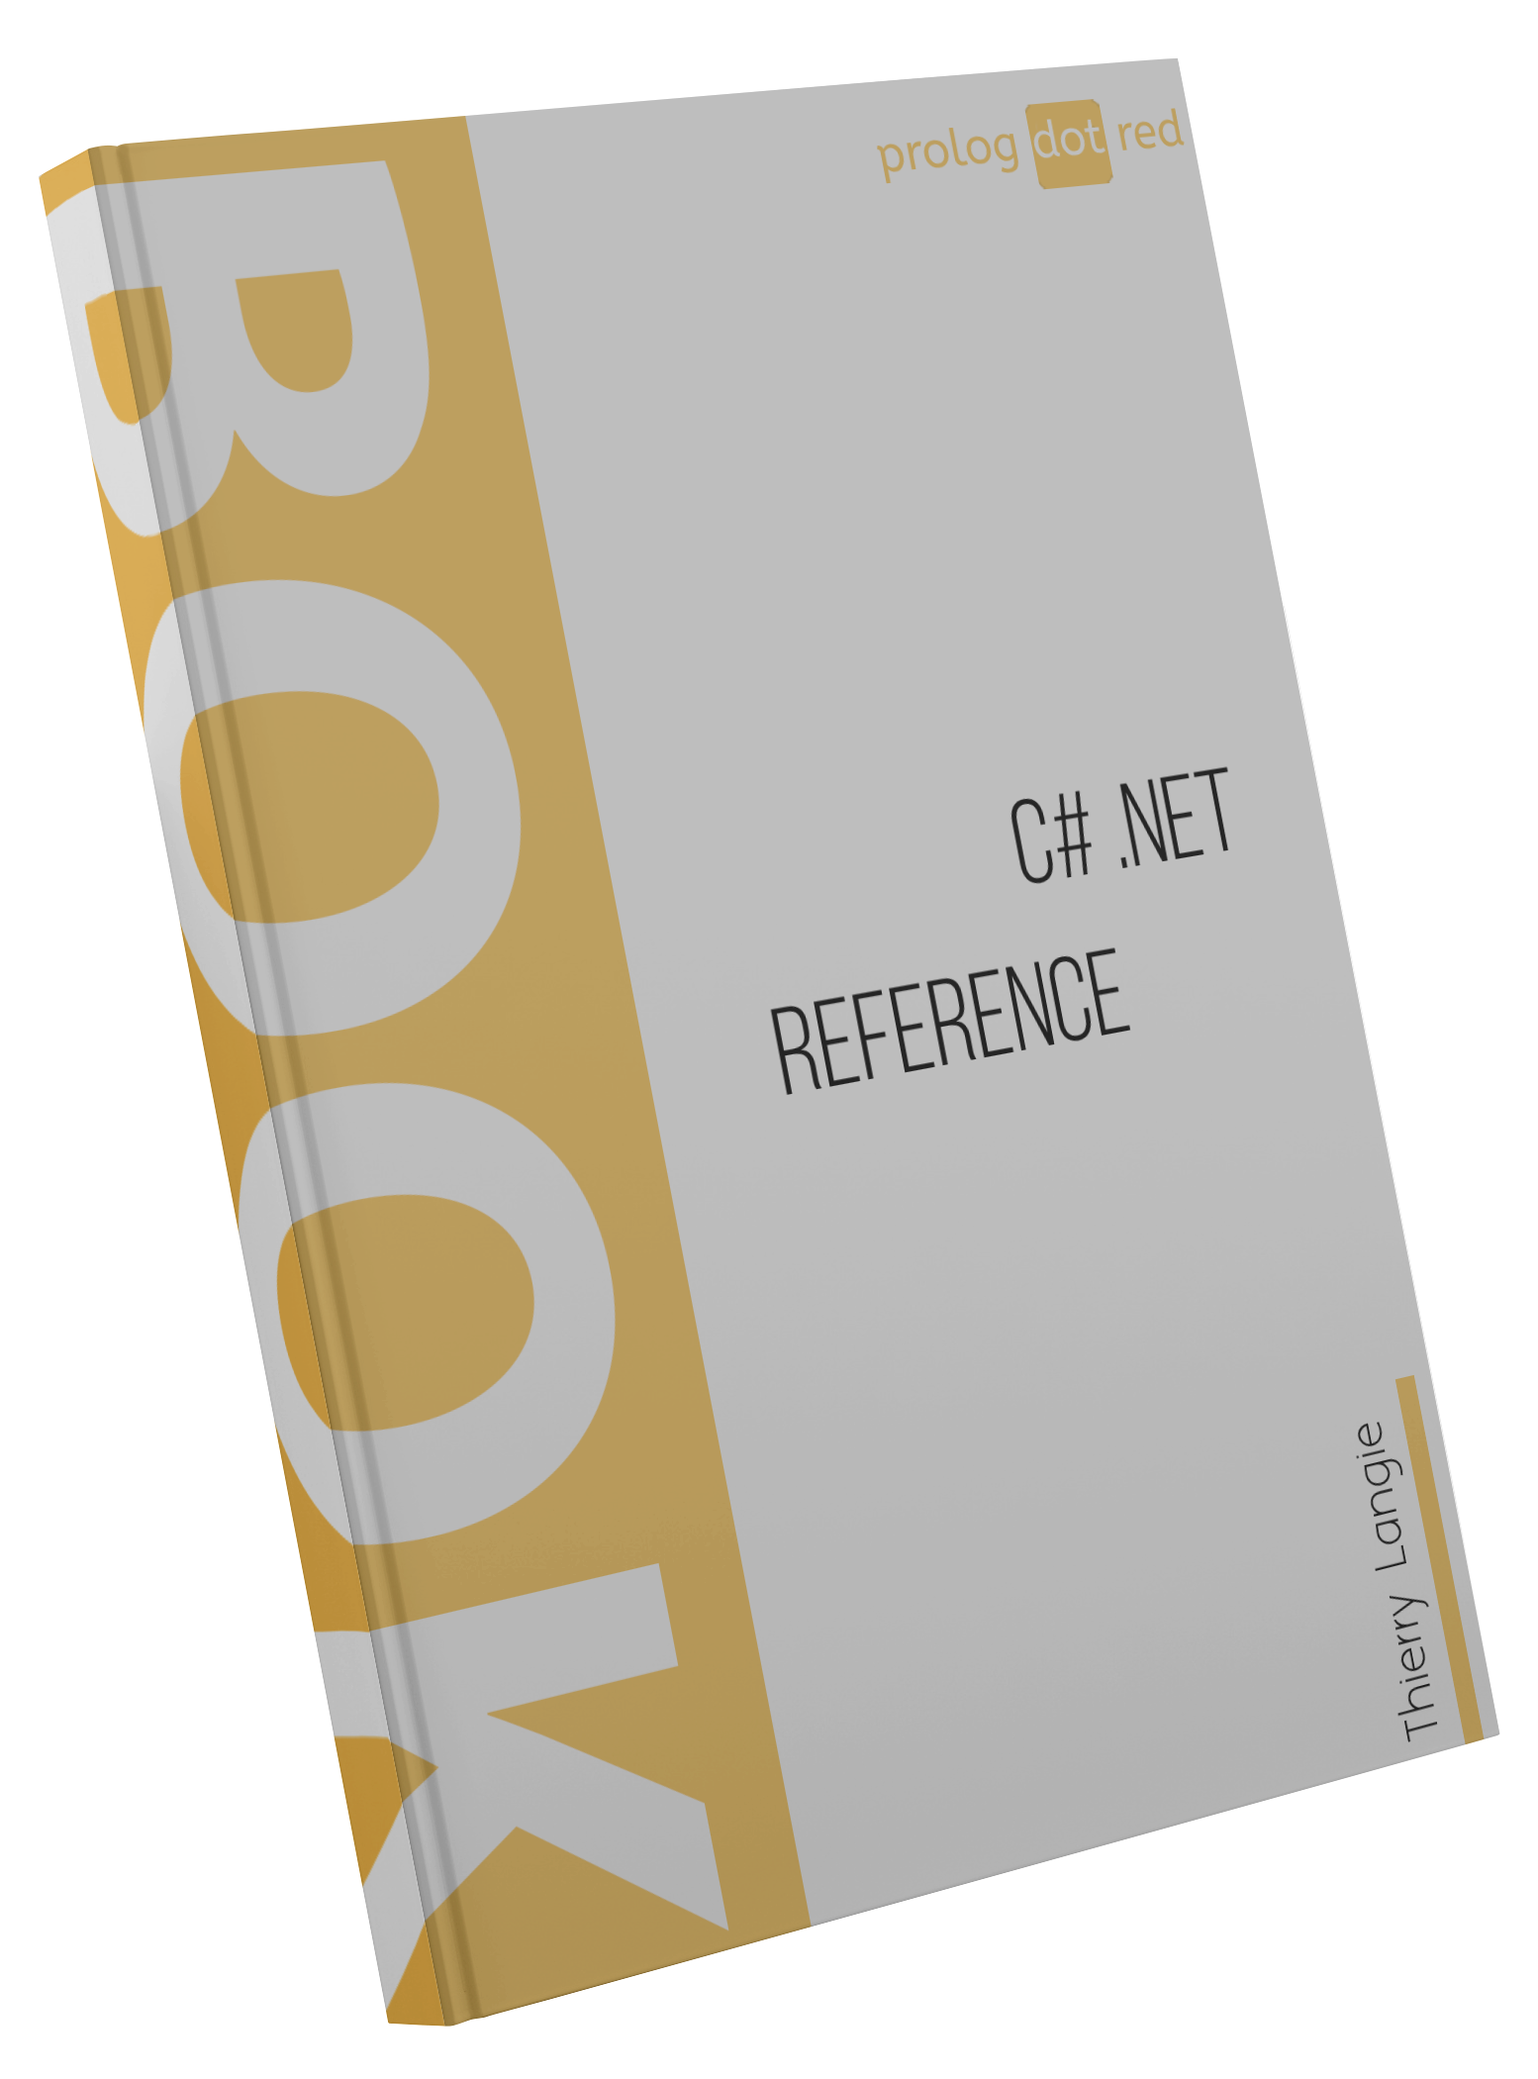
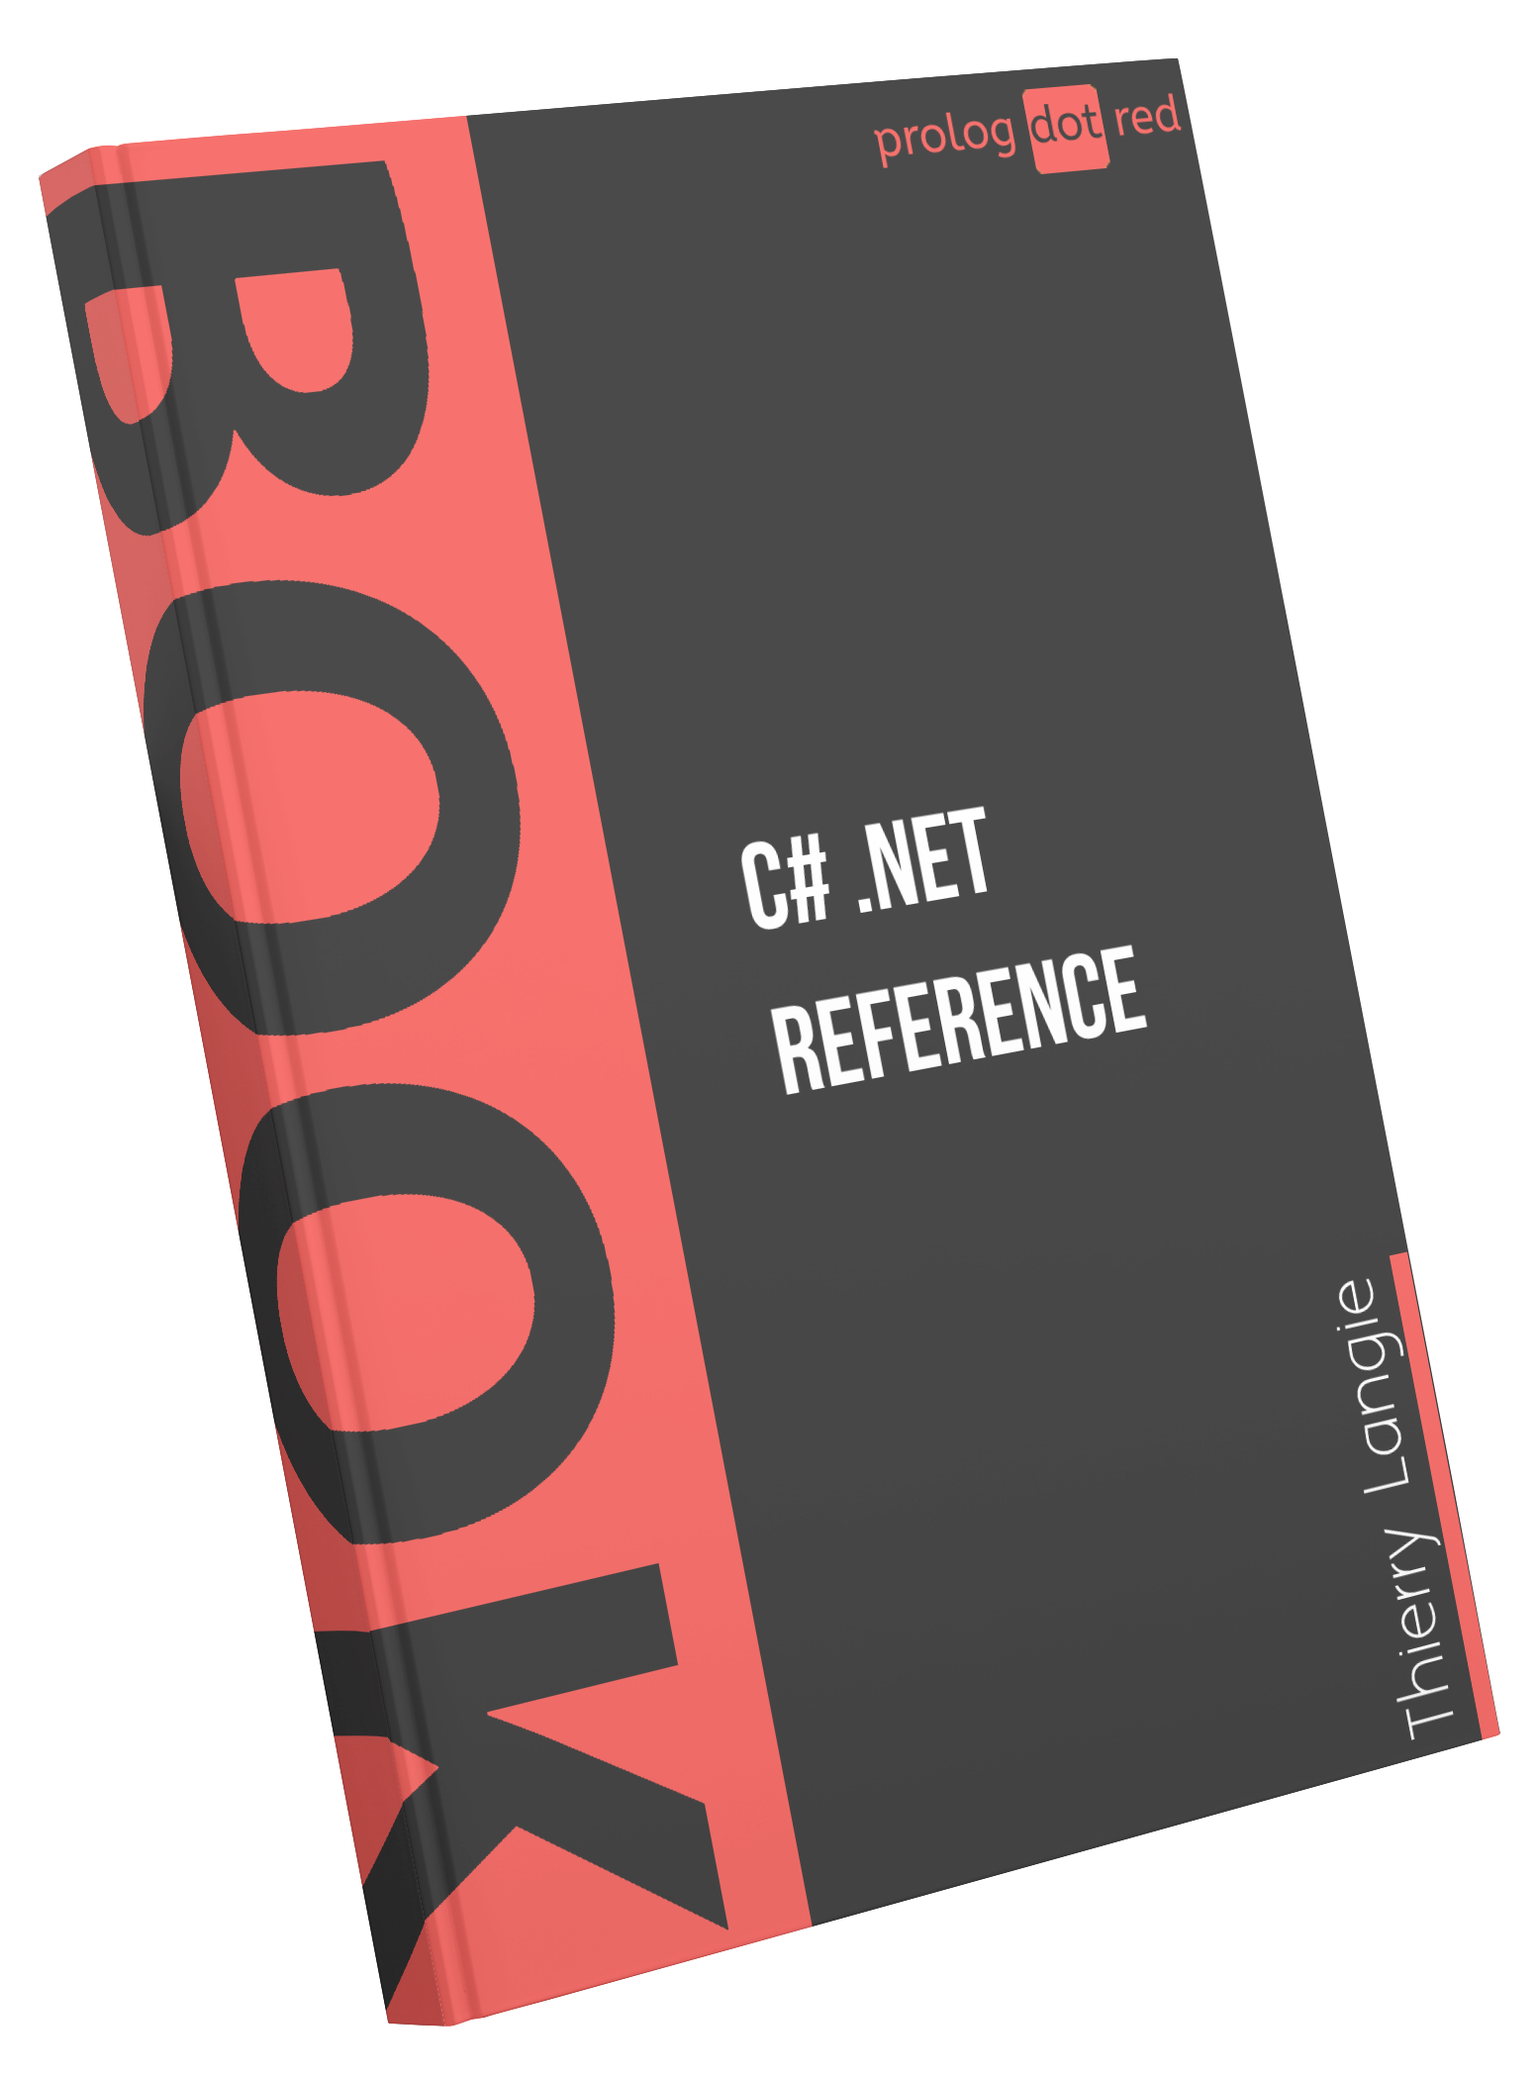
Commit (7th)

diff --git a/dist/logo.css b/dist/logo.css
@@ -1,0 +1,75 @@
+
+/* https://codepen.io/Bronzato1/pen/bGRwrQQ */
+
+.logo-wrapper {
+    width: 111.5px;
+    height: 111.5px;
+    padding-left: 1px;
+    transform: scale(0.33);
+    display: inline-block;
+}
+.red {
+    --custom-color: #F0807D;
+}
+.green {
+    --custom-color: #4ADE80;
+}
+.blue {
+    --custom-color: #60A5FA;
+}
+.yellow {
+    --custom-color: #FACC15;
+}
+.purple {
+    --custom-color: #C084FC;
+}
+.white {
+    --custom-color: #FFFFFF;
+}
+.mdn {
+    position: relative;
+    width: 21rem;
+    height: 21rem;
+    -moz-box-sizing: border-box;
+    box-sizing: border-box;
+    border: solid 1rem #4B4A4A;
+    border-radius: 3rem;
+    background-color: #4B4A4A;
+}
+
+    .mdn::before {
+        display: block;
+        content: '';
+        position: absolute;
+        width: 304px;
+        height: 224px;
+        border-top-left-radius: 2rem;
+        border-top-right-radius: 2rem;
+        /*FF*/
+        background: linear-gradient(128deg, transparent 51%, #4B4A4A 53%, #4B4A4A 70%, transparent 72%) no-repeat bottom left, linear-gradient(108deg, transparent 38%, #4B4A4A 40%, #4B4A4A 63%, transparent 65%) no-repeat bottom left 6.3rem, linear-gradient(73deg, transparent 36%, #4B4A4A 38%, #4B4A4A 63%, transparent 65%) no-repeat bottom right 4.8rem, -moz-radial-gradient(center center, circle contain, #4B4A4A 60%, transparent 60%)no-repeat bottom 2.1rem left 5.7rem, -moz-radial-gradient(center center, circle contain, #4B4A4A 60%, transparent 60%)no-repeat bottom 1.2rem left 8.9rem, -moz-radial-gradient(center center, circle contain, #4B4A4A 60%, transparent 60%)no-repeat left 4.9rem top 6.9rem, -moz-radial-gradient(center center, circle contain, #4B4A4A 60%, transparent 60%)no-repeat left 5.7rem top 4.3rem, -moz-radial-gradient(center center, circle contain, #4B4A4A 60%, transparent 60%)no-repeat left 8.4rem top 2.4rem, linear-gradient(73deg, transparent 36%, #4B4A4A 38%, #4B4A4A 63%, transparent 66%) no-repeat bottom 2.8rem left 2.7rem, linear-gradient(112deg, transparent 36%, #4B4A4A 38%, #4B4A4A 63%, transparent 65%) no-repeat top 4rem left 2.8rem, linear-gradient(150deg, transparent 47%, #4B4A4A 48%, #4B4A4A 66%, transparent 68%) no-repeat top 1.1rem left 3.5rem, linear-gradient(151deg, transparent 55%, #4B4A4A 56%, #4B4A4A 88%, transparent 90%) no-repeat top 2.5rem left 1rem, linear-gradient(150deg, transparent 57%, #4B4A4A 58%, #4B4A4A 88%, transparent 90%) no-repeat top 4.5rem left .8rem, linear-gradient(150deg, transparent 60%, #4B4A4A 63%, #4B4A4A 100%) no-repeat bottom 4.5rem left .8rem, linear-gradient(150deg, transparent 50%, #4B4A4A 53%, #4B4A4A 100%) no-repeat bottom 2.8rem left 1.8rem, linear-gradient(15deg, transparent 16%, #4B4A4A 20%, #4B4A4A 62%, transparent 65%) no-repeat top 1rem left 8.5rem, linear-gradient(162deg, transparent 30%, #4B4A4A 32%, #4B4A4A 70%, transparent 66%) no-repeat top 1.6rem right 6.2rem, linear-gradient(45deg, transparent 31%, #4B4A4A 32%, #4B4A4A 52%, transparent 53%) no-repeat top 1.6rem right 3.5rem, linear-gradient(20deg, transparent 30%, #4B4A4A 31%, #4B4A4A 52%, transparent 54%) no-repeat top 2.8rem right 1.6rem, linear-gradient(45deg, transparent 27%, #4B4A4A 29%, #4B4A4A 51%, transparent 52%) no-repeat top 3.8rem right .5rem, linear-gradient(90deg, transparent 38%, #4B4A4A 38%, #4B4A4A 60%) no-repeat top 6rem right .5rem, linear-gradient(45deg, transparent 35%, #4B4A4A 35%, #4B4A4A 70%) no-repeat top 4.8rem right 1.6rem, linear-gradient(108deg, #4B4A4A 40%, transparent 40%) no-repeat bottom 4.4rem right .1rem, linear-gradient(150deg, transparent 23%, #4B4A4A 25%, #4B4A4A 55%, transparent 57%) no-repeat bottom 3rem right 1rem, linear-gradient(15deg, transparent 40%, #4B4A4A 41%, #4B4A4A 60%, transparent 62%) no-repeat bottom 2.8rem right 3.5rem, linear-gradient(110deg, transparent 45%, #4B4A4A 45%, #4B4A4A 65%, transparent 65%) no-repeat top 3.6rem right 5.8rem, -moz-radial-gradient(center center, ellipse contain, white 28%, transparent 30%)no-repeat right 4.9rem top 3.5rem, linear-gradient(40deg, transparent 52%, var(--custom-color), var(--custom-color) 75%, transparent 75%) no-repeat top 3.2rem right 5rem, linear-gradient(38deg, transparent 30%, var(--custom-color) 30%, var(--custom-color) 52%, transparent 52%) no-repeat top 3.8rem right 6rem, linear-gradient(162deg, transparent 30%, #4B4A4A 30%, #4B4A4A 70%, transparent 65%) no-repeat top 3.3rem right 5.6rem, linear-gradient(162deg, transparent 10%, #4B4A4A 25%, #4B4A4A 55%, transparent 55%) no-repeat top 4rem right 5rem, linear-gradient(15deg, transparent 40%, #4B4A4A 42%, #4B4A4A 59%, transparent 61%) no-repeat top 6rem right 1rem, linear-gradient(15deg, transparent 43%, #4B4A4A 45%, #4B4A4A 59%, transparent 59%) no-repeat top 7.5rem right 1rem, linear-gradient(15deg, transparent 30%, var(--custom-color) 30%, var(--custom-color) 68%, transparent 68%) no-repeat top 4rem right 7.8rem, linear-gradient(15deg, transparent 30%, var(--custom-color) 30%, var(--custom-color) 68%, transparent 68%) no-repeat top 5.1rem right 8.3rem, -moz-radial-gradient(center center, circle contain, var(--custom-color) 0%, var(--custom-color) 33%, #4B4A4A 33%, #4B4A4A 50%, transparent 50%)no-repeat right 6.5rem top 3.2rem, -moz-radial-gradient(center center, circle contain, var(--custom-color) 50%, transparent 52%)no-repeat right 5.6rem top 2.5rem, -moz-radial-gradient(center center, circle contain, #4B4A4A 52%, transparent 53%)no-repeat right 4.6rem top 1.5rem, linear-gradient(80deg, transparent 84%, white 84%, white 55%) no-repeat top 6.9rem right 5.1rem, linear-gradient(80deg, transparent 84%, white 84%, white 55%) no-repeat top 7.1rem right 4.3rem, linear-gradient(80deg, transparent 84%, white 84%, white 55%) no-repeat top 7.3rem right 3.5rem, linear-gradient(80deg, transparent 84%, white 84%, white 55%) no-repeat top 7.5rem right 2.6rem, linear-gradient(80deg, transparent 84%, white 84%, white 55%) no-repeat top 7.7rem right 1.8rem, linear-gradient(120deg, white 40%, white 40%, transparent 40%) no-repeat top 7.7rem right .8rem, linear-gradient(120deg, white 40%, white 40%, transparent 40%) no-repeat top 7.5rem right 1.6rem, linear-gradient(120deg, white 40%, white 40%, transparent 40%) no-repeat top 7.3rem right 2.5rem, linear-gradient(120deg, white 40%, white 40%, transparent 40%) no-repeat top 7.1rem right 3.3rem, linear-gradient(120deg, white 40%, white 40%, transparent 40%) no-repeat top 6.8rem right 4.1rem, linear-gradient(15deg, transparent 45%, #4B4A4A 45%, #4B4A4A 70%, transparent 59%) no-repeat top 6.5rem right 1.1rem, linear-gradient(45deg, gold 30%, #4B4A4A 35%, #4B4A4A 50%, transparent 55%) no-repeat top 4.7rem right 6.2rem;
+        background: linear-gradient(128deg, transparent 51%, #4B4A4A 53%, #4B4A4A 70%, transparent 72%) no-repeat bottom left, linear-gradient(108deg, transparent 38%, #4B4A4A 40%, #4B4A4A 63%, transparent 65%) no-repeat bottom left 6.3rem, linear-gradient(73deg, transparent 36%, #4B4A4A 38%, #4B4A4A 63%, transparent 65%) no-repeat bottom right 4.8rem, -webkit-radial-gradient(center center, circle contain, #4B4A4A 60%, transparent 60%)no-repeat bottom 2.1rem left 5.7rem, -webkit-radial-gradient(center center, circle contain, #4B4A4A 60%, transparent 60%)no-repeat bottom 1.2rem left 8.9rem, -webkit-radial-gradient(center center, circle contain, #4B4A4A 60%, transparent 60%)no-repeat left 4.9rem top 6.9rem, -webkit-radial-gradient(center center, circle contain, #4B4A4A 60%, transparent 60%)no-repeat left 5.7rem top 4.3rem, -webkit-radial-gradient(center center, circle contain, #4B4A4A 60%, transparent 60%)no-repeat left 8.4rem top 2.4rem, linear-gradient(73deg, transparent 36%, #4B4A4A 38%, #4B4A4A 63%, transparent 66%) no-repeat bottom 2.8rem left 2.7rem, linear-gradient(112deg, transparent 36%, #4B4A4A 38%, #4B4A4A 63%, transparent 65%) no-repeat top 4rem left 2.8rem, linear-gradient(150deg, transparent 47%, #4B4A4A 48%, #4B4A4A 66%, transparent 68%) no-repeat top 1.1rem left 3.5rem, linear-gradient(151deg, transparent 55%, #4B4A4A 56%, #4B4A4A 88%, transparent 90%) no-repeat top 2.5rem left 1rem, linear-gradient(150deg, transparent 57%, #4B4A4A 58%, #4B4A4A 88%, transparent 90%) no-repeat top 4.5rem left .8rem, linear-gradient(150deg, transparent 60%, #4B4A4A 63%, #4B4A4A 100%) no-repeat bottom 4.5rem left .8rem, linear-gradient(150deg, transparent 50%, #4B4A4A 53%, #4B4A4A 100%) no-repeat bottom 2.8rem left 1.8rem, linear-gradient(15deg, transparent 16%, #4B4A4A 20%, #4B4A4A 62%, transparent 65%) no-repeat top 1rem left 8.5rem, linear-gradient(162deg, transparent 30%, #4B4A4A 32%, #4B4A4A 70%, transparent 66%) no-repeat top 1.6rem right 6.2rem, linear-gradient(45deg, transparent 31%, #4B4A4A 32%, #4B4A4A 52%, transparent 53%) no-repeat top 1.6rem right 3.5rem, linear-gradient(20deg, transparent 30%, #4B4A4A 31%, #4B4A4A 52%, transparent 54%) no-repeat top 2.8rem right 1.6rem, linear-gradient(45deg, transparent 27%, #4B4A4A 29%, #4B4A4A 51%, transparent 52%) no-repeat top 3.8rem right .5rem, linear-gradient(90deg, transparent 38%, #4B4A4A 38%, #4B4A4A 60%) no-repeat top 6rem right .5rem, linear-gradient(45deg, transparent 35%, #4B4A4A 35%, #4B4A4A 70%) no-repeat top 4.8rem right 1.6rem, linear-gradient(108deg, #4B4A4A 40%, transparent 40%) no-repeat bottom 4.4rem right .1rem, linear-gradient(150deg, transparent 23%, #4B4A4A 25%, #4B4A4A 55%, transparent 57%) no-repeat bottom 3rem right 1rem, linear-gradient(15deg, transparent 40%, #4B4A4A 41%, #4B4A4A 60%, transparent 62%) no-repeat bottom 2.8rem right 3.5rem, linear-gradient(110deg, transparent 45%, #4B4A4A 45%, #4B4A4A 65%, transparent 65%) no-repeat top 3.6rem right 5.8rem, -webkit-radial-gradient(center center, ellipse contain, white 28%, transparent 30%)no-repeat right 4.9rem top 3.5rem, linear-gradient(40deg, transparent 52%, var(--custom-color) 52%, var(--custom-color) 75%, transparent 75%) no-repeat top 3.2rem right 5rem, linear-gradient(38deg, transparent 30%, var(--custom-color) 30%, var(--custom-color) 52%, transparent 52%) no-repeat top 3.8rem right 6rem, linear-gradient(162deg, transparent 30%, #4B4A4A 30%, #4B4A4A 70%, transparent 65%) no-repeat top 3.3rem right 5.6rem, linear-gradient(162deg, transparent 10%, #4B4A4A 25%, #4B4A4A 55%, transparent 55%) no-repeat top 4rem right 5rem, linear-gradient(15deg, transparent 40%, #4B4A4A 42%, #4B4A4A 59%, transparent 61%) no-repeat top 6rem right 1rem, linear-gradient(15deg, transparent 43%, #4B4A4A 45%, #4B4A4A 59%, transparent 59%) no-repeat top 7.5rem right 1rem, linear-gradient(15deg, transparent 30%, var(--custom-color) 30%, var(--custom-color) 68%, transparent 68%) no-repeat top 4rem right 7.8rem, linear-gradient(15deg, transparent 30%, var(--custom-color) 30%, var(--custom-color) 68%, transparent 68%) no-repeat top 5.1rem right 8.3rem, -webkit-radial-gradient(center center, circle contain, var(--custom-color) 0%, var(--custom-color) 33%, #4B4A4A 33%, #4B4A4A 50%, transparent 50%)no-repeat right 6.5rem top 3.2rem, -webkit-radial-gradient(center center, circle contain, var(--custom-color) 50%, transparent 52%)no-repeat right 5.6rem top 2.5rem, -webkit-radial-gradient(center center, circle contain, #4B4A4A 52%, transparent 53%)no-repeat right 4.6rem top 1.5rem, linear-gradient(80deg, transparent 84%, white 84%, white 55%) no-repeat top 6.9rem right 5.1rem, linear-gradient(80deg, transparent 84%, white 84%, white 55%) no-repeat top 7.1rem right 4.3rem, linear-gradient(80deg, transparent 84%, white 84%, white 55%) no-repeat top 7.3rem right 3.5rem, linear-gradient(80deg, transparent 84%, white 84%, white 55%) no-repeat top 7.5rem right 2.6rem, linear-gradient(80deg, transparent 84%, white 84%, white 55%) no-repeat top 7.7rem right 1.8rem, linear-gradient(120deg, white 40%, white 40%, transparent 40%) no-repeat top 7.7rem right .8rem, linear-gradient(120deg, white 40%, white 40%, transparent 40%) no-repeat top 7.5rem right 1.6rem, linear-gradient(120deg, white 40%, white 40%, transparent 40%) no-repeat top 7.3rem right 2.5rem, linear-gradient(120deg, white 40%, white 40%, transparent 40%) no-repeat top 7.1rem right 3.3rem, linear-gradient(120deg, white 40%, white 40%, transparent 40%) no-repeat top 6.8rem right 4.1rem, linear-gradient(15deg, transparent 45%, #4B4A4A 45%, #4B4A4A 70%, transparent 59%) no-repeat top 6.5rem right 1.1rem, linear-gradient(45deg, gold 30%, #4B4A4A 35%, #4B4A4A 50%, transparent 55%) no-repeat top 4.7rem right 6.2rem;
+        background-size: 5.5rem 2.8rem,3rem 5.5rem,3rem 4rem,1rem 1rem,1rem 1rem,1rem 1rem,1rem 1rem,1rem 1rem,3rem 4rem,3rem 3.3rem,5rem 3.3rem,4rem 3rem,3.5rem 3rem,3rem 3rem,3rem 2rem,3rem 1.8rem,2.5rem 1.7rem,2.8rem 2.8rem,2.8rem 2.8rem,1.1rem 2.8rem,1rem 2rem,.5rem 2rem,1rem 1.6rem,2.5rem 1.7rem,6.5rem 3rem,1rem 1rem,2.8rem 1.3rem,1.5rem 1.3rem,2rem 1.3rem,2rem 1.3rem,2rem 1.3rem,6rem 2rem,6.9rem 2rem,2.3rem 3rem,2.3rem 1rem,5.5rem 6rem,7.5rem 7.5rem,9.5rem 10rem,1rem 1rem,1rem 1rem,1rem 1rem,1rem 1rem,1rem 1rem,1rem 1rem,1rem 1rem,1rem 1rem,1rem 1rem,1rem 1rem,7rem 3.2rem,1.1rem 2rem;
+        background-color: var(--custom-color);
+    }
+
+    .mdn::after {
+        content: 'PROLOG';
+        position: absolute;
+        left: 0;
+        bottom: 0px;
+        width: 304px;
+        height: 72px;
+        font-size: 48px;
+        font-weight: 900;
+        color: #FFF;
+        text-align: center;
+        letter-spacing: 10px;
+    }
+
+    html.dark .mdn::after {
+        color: #ffffff;
+    }
+
+    .mini {
+        /*zoom: 0.33;*/
+    }

diff --git a/desktop.html b/desktop.html
@@ -6,6 +6,7 @@
 
 		<title>Prolog</title>
 
+		<link rel="stylesheet" href="dist/logo.css">
 		<link rel="stylesheet" href="dist/reset.css">
 		<link rel="stylesheet" href="dist/reveal.css">
 		<link rel="stylesheet" href="dist/theme/league.css" id="theme">
@@ -14,9 +15,15 @@
 		<link rel="stylesheet" href="plugin/highlight/monokai.css">
 
 		<style>
-			.slide-menu-panel {
-				zoom: 0.85;
-			}
+
+            :root {
+                --r-link-color: #F87171;
+                --r-link-color-hover: #F88888;
+                --r-link-color-dark: #F87171;
+            }
+            .slide-menu-panel {
+                zoom: 0.85;
+            }
 
 			h1 {
 				text-shadow: 0 1px 0 #ccc, 0 2px 0 #c9c9c9, 0 3px 0 #bbb, 0 4px 0 #b9b9b9, 0 5px 0 #aaa, 0 6px 1px rgba(0, 0, 0, 0.1), 0 0 5px rgba(0, 0, 0, 0.1), 0 1px 3px rgba(0, 0, 0, 0.3), 0 3px 5px rgba(0, 0, 0, 0.2), 0 5px 10px rgba(0, 0, 0, 0.25), 0 20px 20px rgba(0, 0, 0, 0.15) !important;
@@ -1645,13 +1652,15 @@ class Program
 						{
 							title: 'About',
 							icon: '<i class="fa fa-user">',
-							content: `<p style="line-height: 25px;">
-										My name is Thierry Langie.<br/>
-										My core business is to create Fast, Performance-Focused,
-										Secure web applications using the latest and revolutionary technologies.
-									  </p>
-									  <div style="background-color: #666; padding: 14px 0;">
-									    <h2 style="text-align: center; color: #aaaaaa">Currently not available</h1>
+                            content: `<ul class="formatted" style="margin-left: 20px; line-height: 30px;">
+									  <li>Role: Full stack .Net developer</li>
+									  <li>Email: thierry.langie@skynet.be</li>
+									  <li>Location: Namur, Belgium</li>
+									  <li>Experience: 20+ missions / years</li>
+									  </ul>
+									  
+									  <div style="zoom: 0.15; position: absolute; bottom: 40px;">
+									    <img src="images/book-cover-2.png" />
 									  </div>`
 						}
 					]
